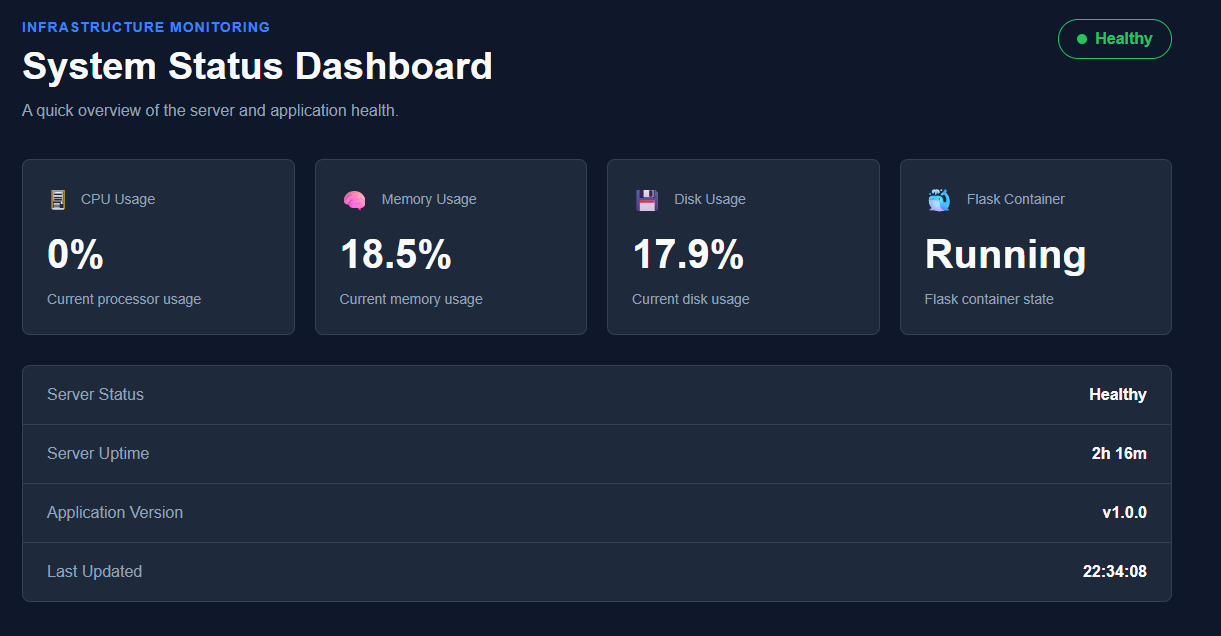
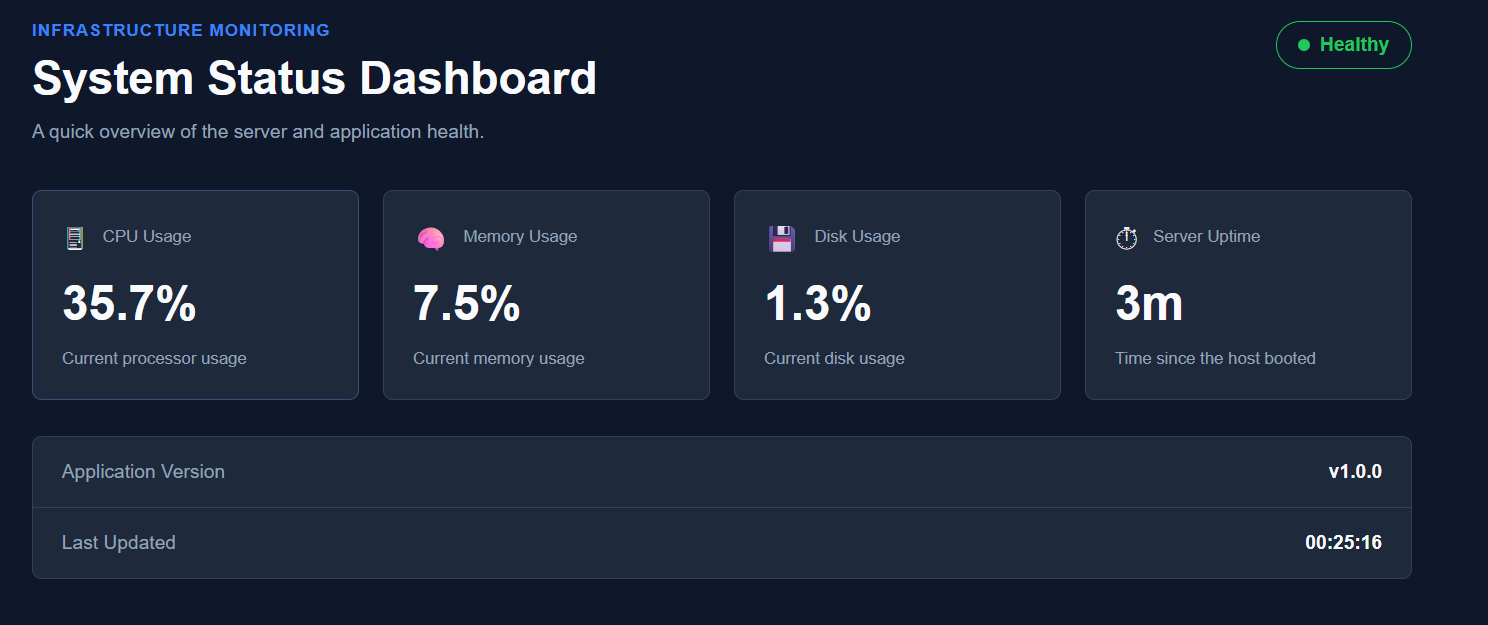
Update README with current screenshots and setup

diff --git a/README.md b/README.md
@@ -1,6 +1,6 @@
-# Azure VM and Container Monitoring Platform
+# System Status Dashboard
 
-A cloud-hosted monitoring and observability project built to monitor the health and performance of a containerized Flask application and its underlying infrastructure.
+A monitoring stack for a containerized Flask application and the Linux host it runs on.
 
 The project uses Prometheus, Grafana, Node Exporter and cAdvisor for metrics collection and visualization, while Docker Compose runs the application and monitoring stack.
 
@@ -18,7 +18,11 @@ Terraform provisions the Azure infrastructure, while GitHub Actions handles appl
 
 ### Flask Dashboard
 
-![Flask dashboard](./docs/screenshots/healthy/flask-dashboard.png)
+The status badge is driven by the application's own data rather than being a fixed label, so it reports the real state. When the container is stopped the badge turns red and the figures stay at their last successful reading.
+
+| Application healthy                                                       | Application unreachable                                                                       |
+| ------------------------------------------------------------------------- | ----------------------------------------------------------------------------------------------- |
+| ![Flask dashboard healthy](./docs/screenshots/healthy/flask-dashboard.png) | ![Flask dashboard unreachable](./docs/screenshots/unhealthy/flask-dashboard-unreachable.png) |
 
 ### Health Check
 
@@ -32,25 +36,11 @@ Terraform provisions the Azure infrastructure, while GitHub Actions handles appl
 | **Server Metrics**                                                                         | **Container Metrics**                                                                                    |
 | ![Server metrics](./docs/screenshots/healthy/grafana-dashboard/server-metrics.png)         | ![Container metrics](./docs/screenshots/healthy/grafana-dashboard/container-metrics.png)                 |
 
-## Features
-
-- Real-time monitoring of application and server health
-- CPU, memory, disk and uptime metrics
-- Container monitoring with cAdvisor
-- Host monitoring with Node Exporter
-- Application metrics exposed through the Flask `/metrics` endpoint
-- Grafana dashboards for historical visualization
-- Grafana alerts for service and resource issues
-- Automated CI/CD deployment with GitHub Actions
-- Container vulnerability scanning with Trivy
-- Docker image storage in GitHub Container Registry
-- Azure infrastructure provisioned with Terraform
-
 ## Tech Stack
 
 | Technology                | Purpose                                      |
 | ------------------------- | -------------------------------------------- |
-| Flask                     | Provides the dashboard and API endpoints     |
+| Flask + Gunicorn          | Provides the dashboard and API endpoints     |
 | Docker Compose            | Runs and manages the containerized services  |
 | Prometheus                | Collects and stores monitoring metrics       |
 | Grafana                   | Displays dashboards and evaluates alerts     |
@@ -80,10 +70,28 @@ Terraform provisions the Azure infrastructure, while GitHub Actions handles appl
 Prometheus collects metrics from the Flask application, Node Exporter and cAdvisor.
 
 - Flask exposes application metrics through `/metrics`
-- Node Exporter provides host CPU, memory, disk and uptime metrics
+- Node Exporter provides host CPU, memory, disk and network metrics
 - cAdvisor provides container CPU and memory metrics
 - Grafana queries Prometheus and visualizes the metrics in dashboards
-- Grafana alerts detect application and resource issues
+- Grafana alerts detect application and resource issues, and send them to a Discord webhook
+
+Three alert rules are provisioned as code in `grafana/provisioning/alerting/alert-rules.yml`:
+
+| Alert                  | Condition                        | Severity |
+| ---------------------- | -------------------------------- | -------- |
+| Flask Application Down | `up{job="flask-app"} < 1` for 1m | critical |
+| High Host CPU Usage    | CPU above 85% for 5m             | warning  |
+| High Host Disk Usage   | Root filesystem above 85% for 5m | warning  |
+
+The rules are created from that file when Grafana starts, so the monitoring setup can be recreated from scratch rather than clicked together in the UI:
+
+![Grafana alert rules](./docs/screenshots/healthy/grafana-alert-rules.png)
+
+Alerts are delivered to a Discord webhook, so a failure reaches me instead of only turning red in a dashboard nobody is watching.
+
+All three scrape targets, checked at `http://localhost:9090/targets`:
+
+![Prometheus targets](./docs/screenshots/healthy/prometheus-targets.png)
 
 The project focuses on metrics-based observability. Container logs are available through Docker, while distributed tracing is not included because the application runs as a single Flask service.
 
@@ -120,18 +128,46 @@ The deployed resources include:
 
 The Azure VM runs Ubuntu Linux and hosts the Docker Compose stack containing the Flask application, Prometheus, Grafana, Node Exporter and cAdvisor.
 
+### Deploying
+
+Terraform needs a `terraform.tfvars` file, which is gitignored. The variables without defaults are `subscription_id`, `admin_ip_cidr` (your public IP in CIDR form, from `curl -s ifconfig.me`) and `ssh_public_key_path`.
+
+```bash
+cd terraform
+terraform init
+terraform plan
+terraform apply
+```
+
+Terraform provisions the infrastructure. Docker and the monitoring stack are then installed on the VM once, by hand — clone the repository, create the `.env` as described in Local Setup, and run `docker compose up -d`. Automating that step with cloud-init is in Future Improvements.
+
+After that, GitHub Actions deploys new versions of the Flask container automatically. Changes to the monitoring configuration still need a `git pull` on the VM.
+
+### Cost and the deployment switch
+
+This runs on a personal Azure subscription, so the infrastructure is created when it is needed and destroyed again afterwards:
+
+```bash
+terraform destroy
+```
+
+Because the VM is not running most of the time, the two Azure steps in the pipeline are gated on a repository variable, `DEPLOY_TO_AZURE`. Set it to `true` when the environment exists; leave it unset and those steps are skipped, so the rest of the pipeline still runs and passes. Testing, image building, security scanning and publishing to GHCR do not depend on Azure at all.
+
 ## Security
 
-- GitHub Actions authenticates to Azure using OpenID Connect (OIDC).
-- No Azure password or client secret is stored in GitHub.
-- SSH access on port `22` is restricted to the administrator IP address.
+- The application is served by Gunicorn, not the Flask development server, and the container runs as a non-root user.
+- Grafana requires an admin password from the environment. Docker Compose refuses to start if it is not set, instead of falling back to the default `admin`/`admin`.
+- All container image versions are pinned, so the stack is the same every time it is rebuilt.
+- Node Exporter mounts only the host paths it needs instead of all of `/`, so it cannot read files like `/etc/shadow`.
+- GitHub Actions authenticates to Azure using OpenID Connect (OIDC). No Azure password or client secret is stored in GitHub.
+- SSH access on port `22` is restricted to the administrator IP address, password authentication is disabled, and access requires an SSH key.
 - Grafana access on port `3000` is restricted to the administrator IP address.
-- Password authentication is disabled on the Azure VM, and access requires an SSH key.
-- Trivy scans the Docker image and fails the pipeline when High or Critical vulnerabilities are detected.
-- Prometheus, Node Exporter and cAdvisor are only available through the internal Docker network.
-- Only the Flask dashboard on port `5000` is publicly exposed for demonstration.
-- Terraform state, variable files and local plans are excluded from Git using `.gitignore`.
-- The SSH private key is stored outside the repository.
+- Trivy scans the Docker image and fails the pipeline when High or Critical vulnerabilities are detected, before the image is published.
+- Prometheus, Node Exporter and cAdvisor are not published publicly. Prometheus is bound to `127.0.0.1` and reachable over an SSH tunnel.
+- Only the Flask dashboard on port `5000` is publicly exposed, for demonstration.
+- Terraform state, variable files, `.env` files and local plans are excluded from Git using `.gitignore`.
+
+Known limitation: cAdvisor needs the Docker socket to see the containers. Mounting it `:ro` makes the socket file read-only but not the Docker API, so anything that could write to it could reach the Docker daemon. That is unavoidable with cAdvisor, so the service is never published outside the Docker network.
 
 ## Failure Detection and Recovery
 
@@ -140,15 +176,15 @@ The monitoring setup was tested by intentionally stopping the Flask container an
 Test flow:
 
 1. The Flask container was stopped.
-2. Prometheus detected that the application target was unavailable.
-3. Grafana displayed the application as `DOWN`.
-4. The Grafana alert changed to the `Firing` state.
-5. Docker Compose confirmed that the Flask container was stopped.
+2. The dashboard status badge changed from `Healthy` to `Unreachable`.
+3. Prometheus detected that the application target was unavailable.
+4. Grafana displayed the application as `DOWN` and the alert moved to `Firing`.
+5. A notification arrived in Discord.
 6. The Flask container was started again.
-7. Prometheus detected the recovered service.
-8. Grafana returned the application status to `UP`.
+7. Prometheus detected the recovered service and Grafana returned it to `UP`.
+8. A second Discord message confirmed the alert had resolved.
 
-This test demonstrates that the monitoring stack can detect an application failure and confirm recovery after the service is restored.
+This test demonstrates that the monitoring stack detects an application failure, notifies me about it, and confirms recovery after the service is restored.
 
 ### Application Failure Detected
 
@@ -157,6 +193,14 @@ This test demonstrates that the monitoring stack can detect an application failu
 ### Alert Firing
 
 ![Grafana alert firing](./docs/screenshots/unhealthy/grafana-dashboards/flask-alert-firing.png)
+
+### Notification Delivered
+
+The alert reaches Discord rather than only turning red in the Grafana UI, and a second message is sent when it resolves.
+
+| Firing                                                                      | Resolved                                                                        |
+| --------------------------------------------------------------------------- | --------------------------------------------------------------------------------- |
+| ![Discord alert firing](./docs/screenshots/unhealthy/discord-alert-firing.png) | ![Discord alert resolved](./docs/screenshots/unhealthy/discord-alert-resolved.png) |
 
 ## Local Setup
 
@@ -172,10 +216,19 @@ git clone https://github.com/aden-farah/system-status-dashboard.git
 cd system-status-dashboard
 ```
 
-Start the monitoring stack.
+Create a `.env` file next to `docker-compose.yml`. It is gitignored and never committed.
 
 ```bash
-docker compose up -d
+GRAFANA_ADMIN_PASSWORD=pick-something-long
+DISCORD_WEBHOOK_URL=
+```
+
+Compose will not start without `GRAFANA_ADMIN_PASSWORD`, which is deliberate — it stops Grafana quietly falling back to its default `admin`/`admin`.
+
+Start the monitoring stack. `--build` builds the Flask image from `./app`, so local code changes are picked up.
+
+```bash
+docker compose up -d --build
 ```
 
 Confirm that the containers are running.
@@ -196,10 +249,16 @@ Open the Flask dashboard.
 http://localhost:5000
 ```
 
-Open Grafana.
+Open Grafana. Log in as `admin` with the password from your `.env`.
 
 ```text
 http://localhost:3000
+```
+
+Prometheus is bound to localhost and not published to the network.
+
+```text
+http://localhost:9090
 ```
 
 Stop the monitoring stack.
@@ -266,9 +325,8 @@ system-status-dashboard/
 
 ## Future Improvements
 
-- Replace the Flask development server with a production WSGI server such as Gunicorn
-- Add HTTPS with a custom domain and reverse proxy
-- Configure email or messaging notifications for Grafana alerts
+- Bootstrap the VM with cloud-init so `terraform apply` installs Docker and starts the stack, instead of setting it up by hand
+- Tag images by commit SHA instead of `latest`, so it is possible to tell which build is running and roll back
 - Store Terraform state remotely in Azure Storage
-- Pin Docker image versions instead of relying on `latest`
-- Automate deployment of Docker Compose and Grafana configuration changes
+- Add HTTPS with a custom domain and reverse proxy
+- Automate deployment of Docker Compose and Grafana configuration changes, not just the application container
